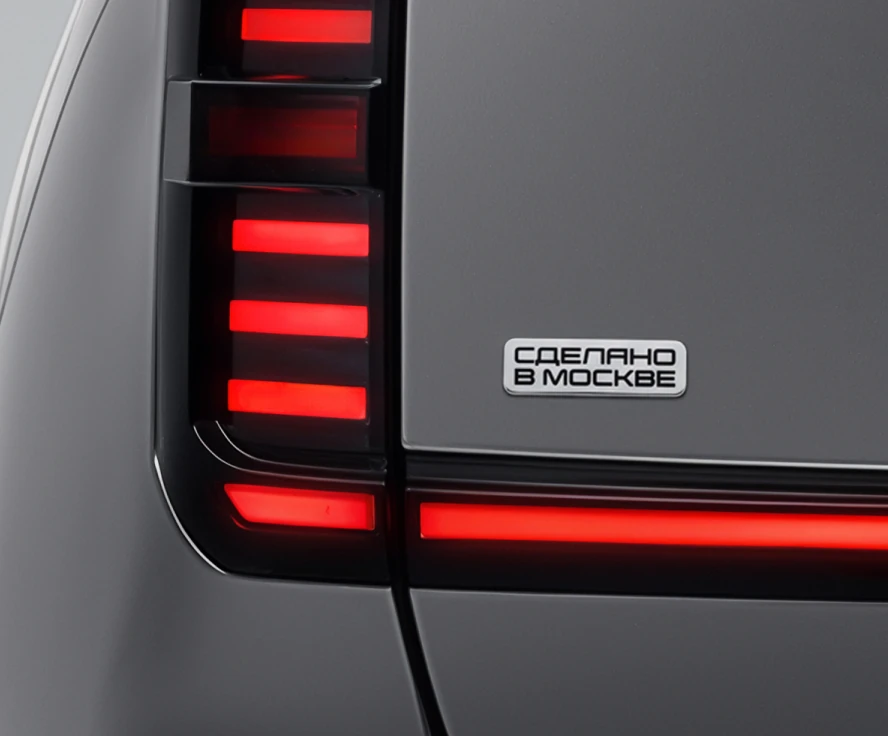
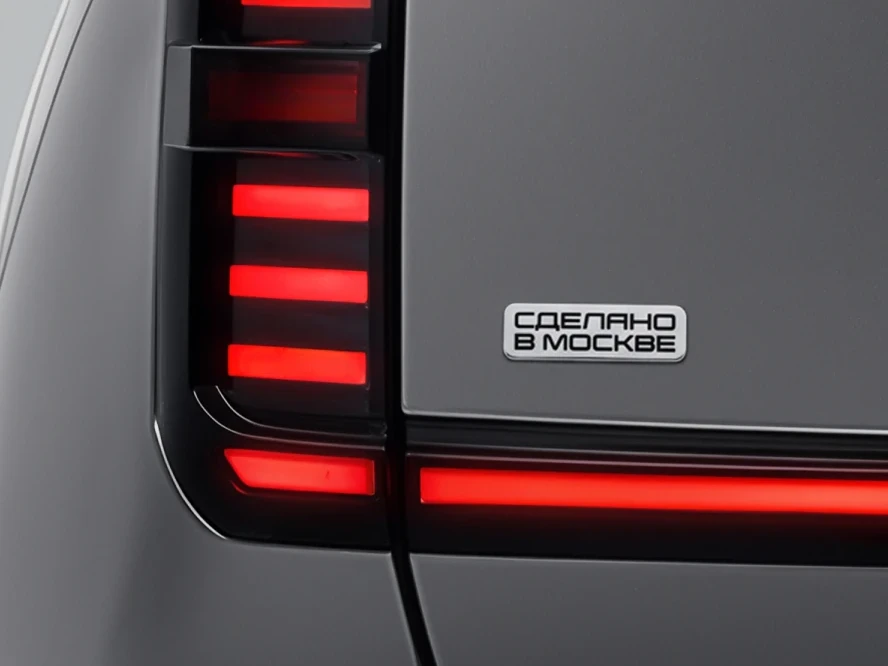
Guide: Сделано в Москве pictures 4:3 everywhere (centre crop of the 444×368 frames to 444×333)

diff --git a/src/guide/Guide.tsx b/src/guide/Guide.tsx
@@ -1206,8 +1206,8 @@ export default function Guide() {
             <Section>
               <H2 id="made-in-moscow">Сделано в Москве</H2>
               <div className="grid grid-cols-1 sm:grid-cols-2 gap-6">
-                <Fig name="moscow-umo5" w={444} h={368} alt="Шильдик «Сделано в Москве» на UMO 5" />
-                <Fig name="moscow-umo8" w={444} h={368} alt="Шильдик «Сделано в Москве» на UMO 8" />
+                <Fig name="moscow-umo5" w={444} h={333} alt="Шильдик «Сделано в Москве» на UMO 5" />
+                <Fig name="moscow-umo8" w={444} h={333} alt="Шильдик «Сделано в Москве» на UMO 8" />
               </div>
             </Section>
           </Chapter>
